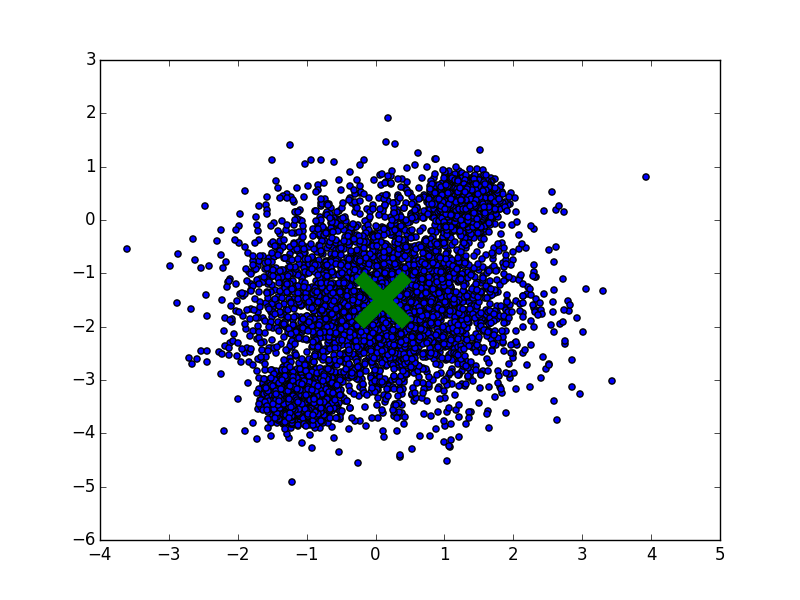
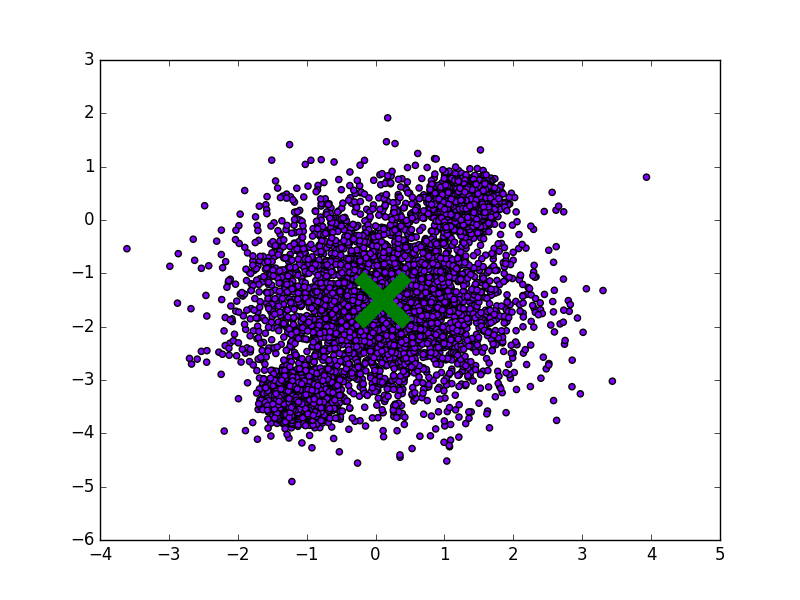
add colours to plots

diff --git a/A3/kmeans.py b/A3/kmeans.py
@@ -50,16 +50,25 @@ def run_cluster(k_clusters, file=sys.stdout, learning_rate=0.1, beta1=0.9, beta2
 			print ("{:4d}, {:0.5f}".format(iteration+1, loss_value), file=file)
 		validation_loss = session.run(loss, feed_dict={input_data: validation_data})
 		print ("validation loss: {}".format(validation_loss), file=file)
-		centroid_values = centroids.eval()
-		# plt.scatter(train_data[:,0], train_data[:,1])
-		for centroid in centroid_values:
-			print (centroid, file=file)
-		#	plt.plot(centroid[0], centroid[1], markersize=35, marker="x", color='green', mew=10)
-		# plt.show()
 
-fout = open("task1_4_results.log", 'w', 0)
-#fout = sys.stdout
+		distance_values = distances.eval(feed_dict={input_data: train_data})
+		mins = np.argmin(distance_values, axis=0)
+		print (np.bincount(mins))
+
+		centroid_values = centroids.eval()
+		colour = plt.cm.rainbow(np.linspace(0,1, len(centroid_values)))
+
+		plt.scatter(train_data[:,0], train_data[:,1], c=colour[mins])
+		for i, centroid in enumerate(centroid_values):
+			plt.plot(centroid[0], centroid[1], markersize=35, marker="x", color='green', mew=10)
+			print (centroid, file=file)
+		plt.show()
+		
+		
+
+# fout = open("task1_4_results.log", 'w', 0)
+fout = sys.stdout
 for k_cluster in [1, 2, 3, 4, 5]:
 	print ("Starting experiment with k_cluster = {}".format(k_cluster), file=fout)
 	run_cluster(k_clusters=k_cluster, file=fout, learning_rate=0.1)
-fout.close()
+# fout.close()
